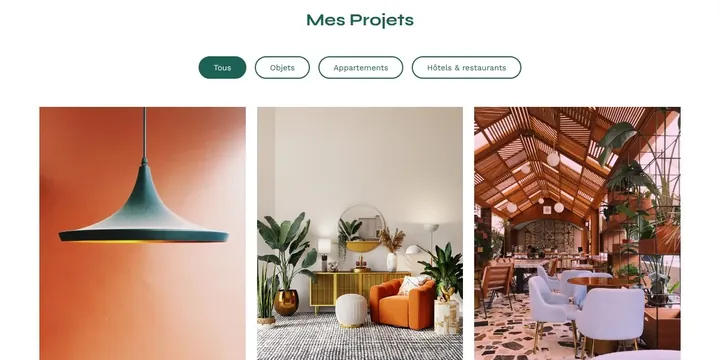
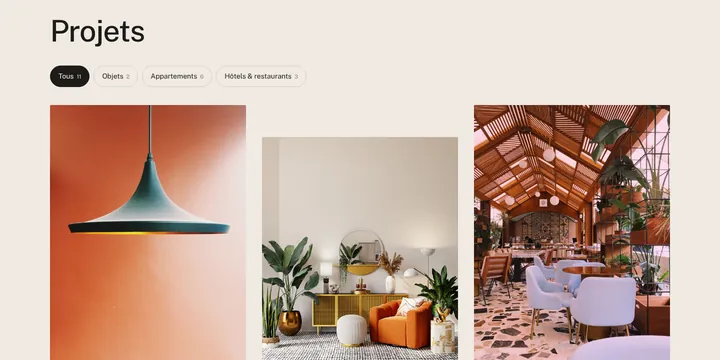
Étude de cas : le portfolio d'architecte devient Atelier Chaux (texte, captures, mentions)
Claude-Session: https://claude.ai/code/session_01QhyTVNnbpH7J7HBMNinF9D

diff --git a/src/projects/projects.data.js b/src/projects/projects.data.js
@@ -230,27 +230,27 @@ export const projects = [
   {
     id: "sophiebluel",
     kind: "modal",
-    title: "Portfolio d'architecte",
-    cat: "Projet de formation · JavaScript",
+    title: "Atelier Chaux",
+    cat: "Concept · Site et back-office",
     tags: ["web"],
     tone: "bleu",
     img: {
       src: "/img/projets-mosaique/sophie-bluel-bleu.webp",
-      alt: "Portfolio d'architecte : galerie de projets filtrable, développée en JavaScript",
+      alt: "Atelier Chaux : galerie de projets d'architecture intérieure, filtrable par type",
       width: 1280,
       height: 960,
     },
     detail: {
-      cat: "Projet de formation · JavaScript",
-      tagline: "Une galerie publique, un espace d'administration privé : une architecte qui met à jour son site sans développeur.",
+      cat: "Concept · Site et back-office",
+      tagline: "Le site d'un studio d'architecture intérieure, avec un espace privé pour publier ses projets sans développeur.",
       tech: ["html", "css", "javascript", "jwt"],
       sections: [
-        { heading: "Contexte", text: "Sophie Bluel, architecte d'intérieur, veut un site qui présente ses réalisations et qu'elle puisse mettre à jour elle-même. L'API étant fournie, ma mission était de développer tout le front-end." },
-        { heading: "Objectifs", text: "Générer la galerie depuis l'API et la filtrer par catégorie, puis créer une page de connexion et une fenêtre d'administration pour ajouter ou supprimer des projets, sans recharger la page." },
-        { heading: "Stack technique", text: "HTML et CSS pour la structure et la mise en page, JavaScript sans framework pour toute la logique, une API REST et une authentification par jeton JWT conservé dans le navigateur." },
-        { heading: "Compétences développées", text: "Dialoguer avec une API (lecture, envoi de fichier, suppression protégée), manipuler le DOM, et sécuriser l'ajout d'image : vérification du format et du poids, aperçu avant publication, messages d'erreur clairs." },
-        { heading: "Résultats et impact", text: "Un site entièrement piloté par les données, avec un parcours d'administration complet, en ligne et documenté sur GitHub." },
-        { heading: "Perspectives d'amélioration", text: "Gérer l'expiration du jeton de connexion, découper le code en modules ES et rendre la fenêtre d'administration entièrement navigable au clavier." },
+        { heading: "Contexte", text: "Atelier Chaux est un studio fictif d'architecture intérieure. Le projet part d'un brief de formation (API fournie, front-end à réaliser), que j'ai ensuite entièrement repensé : identité, contenus, interface et code front." },
+        { heading: "Objectifs", text: "Présenter les réalisations de façon éditoriale, donner envie de prendre contact, et laisser l'atelier gérer seul sa galerie : ajouter un chantier livré, retirer une ancienne référence, sans recharger la page." },
+        { heading: "Direction artistique", text: "Une palette minérale (chaux, encre, terre cuite), une seule typographie et une grille décalée qui laisse respirer les images. Une accroche sobre qui dit ce que fait le studio, plutôt qu'un slogan." },
+        { heading: "Ce que fait le site", text: "Galerie filtrable par type avec compteurs, fiche projet en plein écran navigable au clavier, connexion par jeton JWT, fenêtre d'administration avec ajout par glisser-déposer, aperçu, contrôle du format réel de l'image, et confirmation avant retrait." },
+        { heading: "Qualité", text: "HTML, CSS et JavaScript sans framework. Dialogues natifs, focus visibles, messages lus par les lecteurs d'écran, mise en page pensée pour le mobile et respect des préférences de mouvement réduit." },
+        { heading: "Perspectives", text: "Ajouter une fiche détaillée par projet (surface, matériaux, enjeu), gérer l'expiration du jeton de connexion et brancher le formulaire de contact sur un vrai envoi d'e-mail." },
       ],
       links: [
         { href: "https://sophiebluel-ten.vercel.app/", label: "Voir la démo" },
@@ -259,10 +259,10 @@ export const projects = [
       gallery: {
         screens: true,
         images: [
-          { src: "/img/projets/sophiebluel-galerie.webp", alt: "Portfolio d'architecte : galerie publique filtrable par catégorie", width: 1440, height: 950 },
-          { src: "/img/projets/sophiebluel-admin.webp", alt: "Portfolio d'architecte : mode édition après connexion", width: 1440, height: 950 },
-          { src: "/img/projets/sophiebluel-modal.webp", alt: "Portfolio d'architecte : fenêtre modale d'administration avec ajout et suppression de projets", width: 1440, height: 950 },
-          { src: "/img/projets/sophiebluel-login.webp", alt: "Portfolio d'architecte : page de connexion de l'administration", width: 1440, height: 900 },
+          { src: "/img/projets/sophiebluel-galerie.webp", alt: "Atelier Chaux : galerie publique filtrable par type de projet", width: 1440, height: 950 },
+          { src: "/img/projets/sophiebluel-admin.webp", alt: "Atelier Chaux : mode édition après connexion", width: 1440, height: 950 },
+          { src: "/img/projets/sophiebluel-modal.webp", alt: "Atelier Chaux : fenêtre de gestion des projets publiés", width: 1440, height: 950 },
+          { src: "/img/projets/sophiebluel-login.webp", alt: "Atelier Chaux : page de connexion de l'espace atelier", width: 1440, height: 900 },
         ],
       },
     },

diff --git a/creation-site-internet-cannes.html b/creation-site-internet-cannes.html
@@ -204,7 +204,7 @@
           <ul class="projets__grid">
             <li class="card"><a class="card__btn" href="/realisations/gdunan"><span class="card__media"><img src="/img/projets/gd-1.webp" alt="Composition de marque Gdunan avec le monogramme GD" loading="lazy" width="1000" height="1250" /><span class="card__overlay"><span class="card__cat">Identité · Site web</span><span class="card__title">GdunaN</span></span></span></a></li>
             <li class="card"><a class="card__btn" href="/realisations/ewa-flr"><span class="card__media"><img src="/img/projets/ewa-1.webp" alt="Identité de marque Ewa FLR" loading="lazy" width="1000" height="1250" /><span class="card__overlay"><span class="card__cat">Identité de marque</span><span class="card__title">Ewa FLR</span></span></span></a></li>
-            <li class="card"><a class="card__btn" href="/#projet-sophiebluel"><span class="card__media"><img src="/img/projets/sophiebluel-galerie.webp" alt="Portfolio d'architecte : galerie de projets filtrable par catégorie" loading="lazy" width="1440" height="950" /><span class="card__overlay"><span class="card__cat">Projet de formation · JavaScript</span><span class="card__title">Portfolio d'architecte</span></span></span></a></li>
+            <li class="card"><a class="card__btn" href="/#projet-sophiebluel"><span class="card__media"><img src="/img/projets/sophiebluel-galerie.webp" alt="Atelier Chaux : galerie de projets d'architecture intérieure, filtrable par type" loading="lazy" width="1440" height="950" /><span class="card__overlay"><span class="card__cat">Concept · Site et back-office</span><span class="card__title">Atelier Chaux</span></span></span></a></li>
           </ul>
           <p class="landing__work-more"><a href="/#projets">Voir tout le portfolio&nbsp;→</a></p>
         </section>

diff --git a/creation-site-internet-nice.html b/creation-site-internet-nice.html
@@ -237,8 +237,8 @@
             <li>Un classement par type de projet</li>
             <li>L'ajout de vos nouveaux projets en toute autonomie</li>
           </ul>
-          <figure class="article-figure"><img src="/img/projets/sophiebluel-modal.webp" alt="Portfolio d'architecte d'intérieur : fenêtre d'administration pour ajouter ou supprimer des projets" loading="lazy" width="1440" height="950" /><figcaption>Portfolio d'architecte d'intérieur&nbsp;: les projets s'ajoutent et se retirent depuis une fenêtre d'administration.</figcaption></figure>
-          <p class="landing__work-more"><a href="/#projet-sophiebluel">Voir le projet de portfolio d'architecte&nbsp;→</a></p>
+          <figure class="article-figure"><img src="/img/projets/sophiebluel-modal.webp" alt="Atelier Chaux : fenêtre d'administration pour publier ou retirer des projets" loading="lazy" width="1440" height="950" /><figcaption>Atelier Chaux, site d'architecture intérieure&nbsp;: les projets s'ajoutent et se retirent depuis une fenêtre d'administration.</figcaption></figure>
+          <p class="landing__work-more"><a href="/#projet-sophiebluel">Voir le projet Atelier Chaux&nbsp;→</a></p>
         </section>
         <section class="landing__section article-section" id="des-sites-web-sur-mesure-jamais-des-templates">
           <span class="article-section__num" aria-hidden="true">04</span>

diff --git a/site-avec-ia-ou-developpeur.html b/site-avec-ia-ou-developpeur.html
@@ -88,8 +88,8 @@
         <div class="article-body" data-nav-light>
           <div class="article-wrap">
             <figure class="article-cover article-cover--top">
-              <img src="/img/articles/ia-portfolio-edition.webp" srcset="/img/articles/ia-portfolio-edition-720.webp 720w, /img/articles/ia-portfolio-edition.webp 1440w" sizes="(max-width: 767px) calc(100vw - 2.5rem), 1180px" alt="Portfolio d'architecte d'intérieur en mode édition, développé en JavaScript" loading="eager" width="1440" height="950" />
-              <figcaption>Portfolio d'architecte d'intérieur&nbsp;: un site dynamique avec un mode édition, développé et relu ligne par ligne.</figcaption>
+              <img src="/img/articles/ia-portfolio-edition.webp" srcset="/img/articles/ia-portfolio-edition-720.webp 720w, /img/articles/ia-portfolio-edition.webp 1440w" sizes="(max-width: 767px) calc(100vw - 2.5rem), 1180px" alt="Atelier Chaux, site d'architecture intérieure en mode édition, développé en JavaScript" loading="eager" width="1440" height="950" />
+              <figcaption>Atelier Chaux, site d'architecture intérieure&nbsp;: un site dynamique avec un mode édition, développé et relu ligne par ligne.</figcaption>
             </figure>
 
             <section class="article-key" aria-labelledby="essentiel-titre">

diff --git a/creation-site-internet-antibes.html b/creation-site-internet-antibes.html
@@ -93,8 +93,8 @@
         <div class="article-body" data-nav-light>
           <div class="article-wrap">
             <figure class="article-cover">
-              <img src="/img/projets/sophie-bluel-couverture.webp" srcset="/img/projets/sophie-bluel-couverture-720.webp 720w, /img/projets/sophie-bluel-couverture.webp 1280w" sizes="(max-width: 767px) calc(100vw - 2.5rem), 1180px" alt="Portfolio d'architecte d'intérieur : galerie de projets filtrable par type" loading="eager" width="1280" height="640" />
-              <figcaption>Portfolio d'architecte d'intérieur&nbsp;: les projets se filtrent par type, des objets aux hôtels et restaurants.</figcaption>
+              <img src="/img/projets/sophie-bluel-couverture.webp" srcset="/img/projets/sophie-bluel-couverture-720.webp 720w, /img/projets/sophie-bluel-couverture.webp 1280w" sizes="(max-width: 767px) calc(100vw - 2.5rem), 1180px" alt="Atelier Chaux, site d'architecture intérieure : galerie de projets filtrable par type" loading="eager" width="1280" height="640" />
+              <figcaption>Atelier Chaux, site d'architecture intérieure&nbsp;: les projets se filtrent par type, des objets aux hôtels et restaurants.</figcaption>
             </figure>
 
             <div class="landing-intro">

diff --git a/index.html b/index.html
@@ -448,10 +448,10 @@
             <li class="card card--bleu">
               <button class="card__btn" type="button" data-project="sophiebluel" aria-haspopup="dialog">
                 <span class="card__media">
-                  <img src="/img/projets-mosaique/sophie-bluel-bleu.webp" alt="Portfolio d'architecte : galerie de projets filtrable, développée en JavaScript" loading="lazy" width="1280" height="960" />
+                  <img src="/img/projets-mosaique/sophie-bluel-bleu.webp" alt="Atelier Chaux : galerie de projets d'architecture intérieure, filtrable par type" loading="lazy" width="1280" height="960" />
                   <span class="card__overlay">
-                    <span class="card__cat">Site dynamique · JavaScript</span>
-                    <span class="card__title">Portfolio d'architecte</span>
+                    <span class="card__cat">Concept · Site et back-office</span>
+                    <span class="card__title">Atelier Chaux</span>
                     <span class="card__cta" aria-hidden="true">Découvrir</span>
                   </span>
                 </span>
